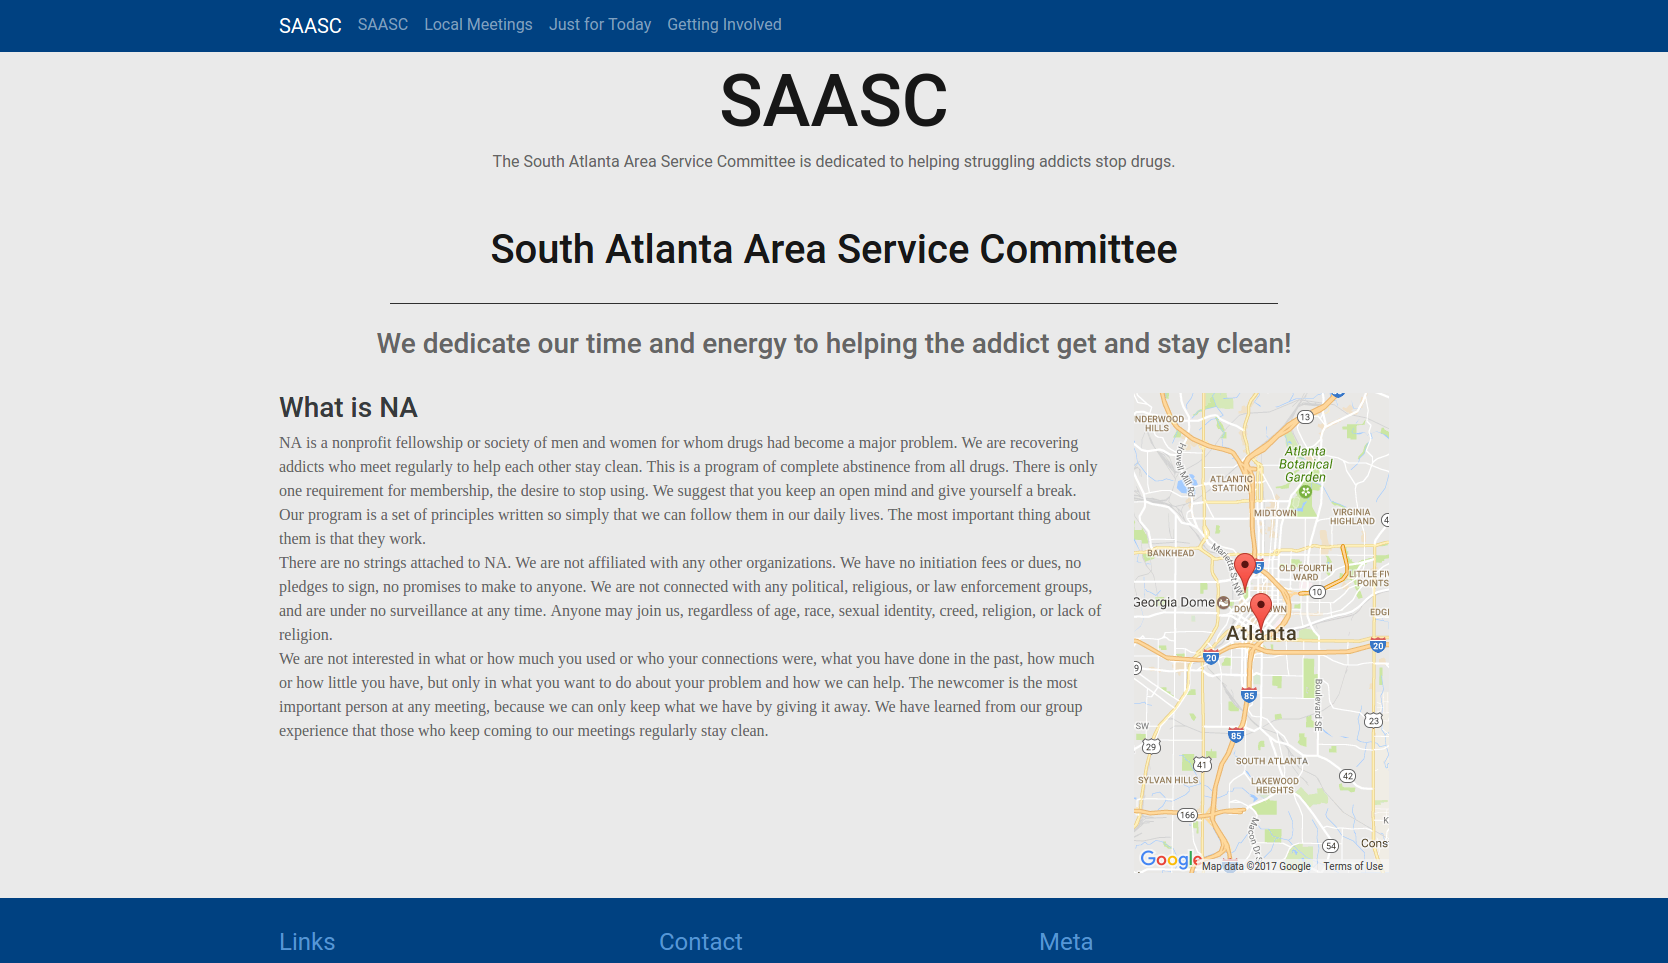
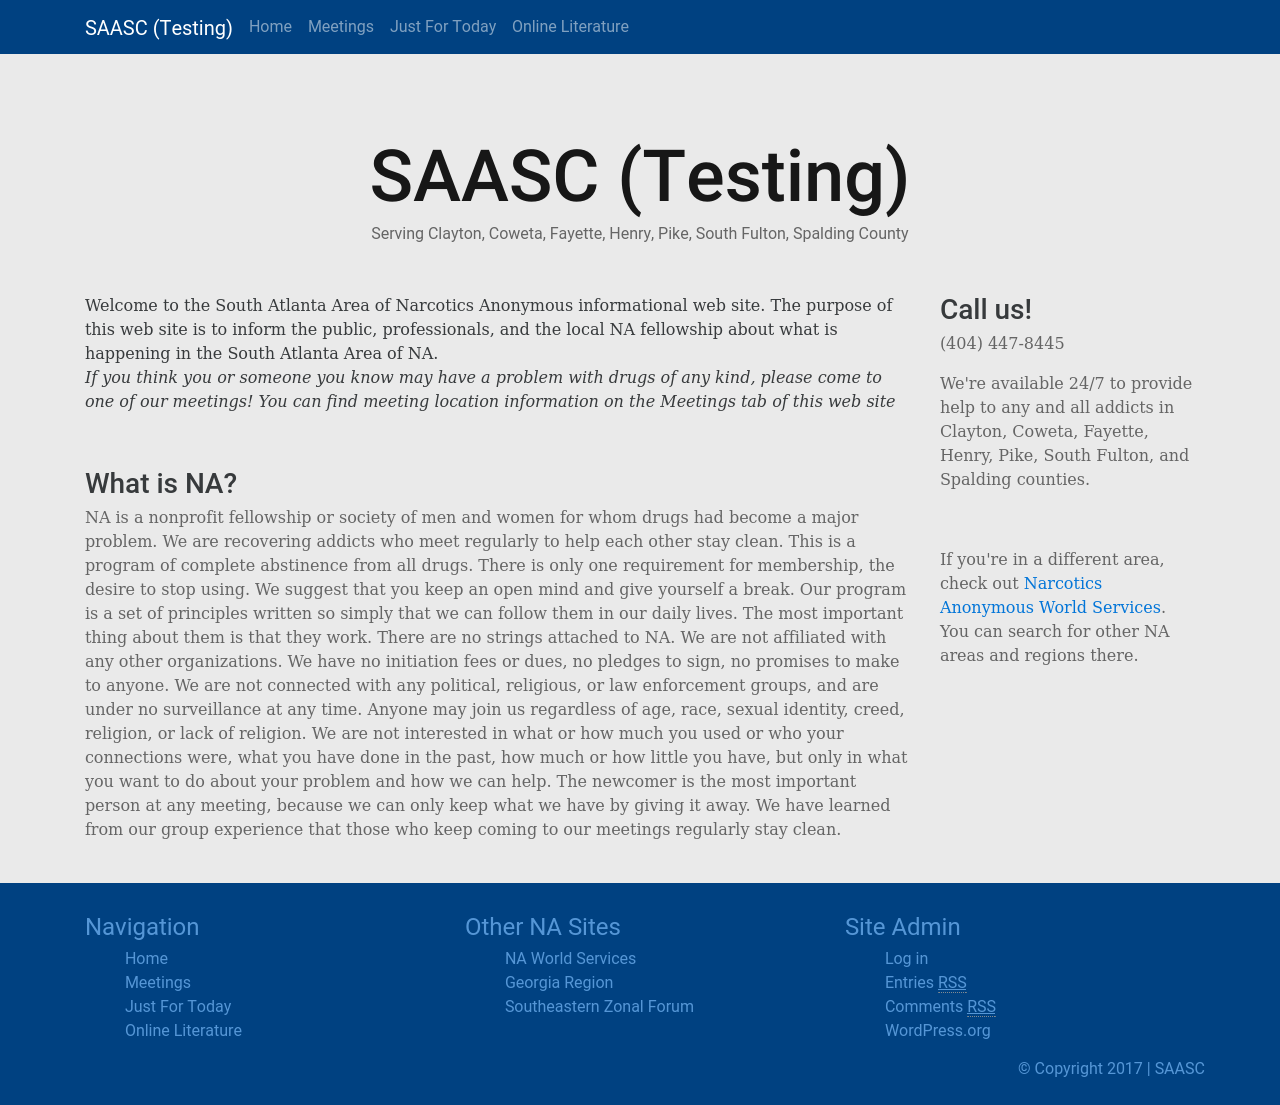
Pictures taken properly now
Rendering in phantomjs was off, phantomjs2 fixed it. Also, the theme screenshot is automatically updated with code changes.

diff --git a/Gruntfile.js b/Gruntfile.js
@@ -15,8 +15,11 @@ module.exports = function(grunt) {
                 options: {
                     spawn: false,
                 }   
+            },
+            php: {
+                files: ['*.php', 'includes/themetacular/*.php'],
+                tasks: ['copy', 'clean', 'webshot']
             }
-
         },
 
         sass: {
@@ -57,7 +60,7 @@ module.exports = function(grunt) {
         copy: {
             main: {
                 files: [
-                    {expand: true, src: ['includes/**'], dest: 'docker/wordpress/wp-content/themes/SAASC-WP-theme/includes'},
+                    {expand: true, src: ['includes/**'], dest: 'docker/wordpress/wp-content/themes/SAASC-WP-theme'},
                     {expand: true, src: ['screenshot.png'], dest: 'docker/wordpress/wp-content/themes/SAASC-WP-theme'},
                     {expand: true, src: ['style.css'], dest: 'docker/wordpress/wp-content/themes/SAASC-WP-theme'},
                     {expand: true, src: ['404.php'], dest: 'docker/wordpress/wp-content/themes/SAASC-WP-theme'},
@@ -92,8 +95,25 @@ module.exports = function(grunt) {
         },
         
         webshot: {  
+            homepage_xl_themeimage: {  
+                options: {  
+                    phantomPath: require('phantomjs2').path,
+                    siteType: 'url',  
+                    site: 'http://172.18.0.3/',  
+                    savePath: 'screenshot.png',  
+                    windowSize: {  
+                        width: 1280,  
+                        height: 720  
+                    },  
+                    shotSize: {  
+                        width: 1280,  
+                        height: 'all'  
+                    }  
+                }  
+            },
             homepage_xl: {  
                 options: {  
+                    phantomPath: require('phantomjs2').path,
                     siteType: 'url',  
                     site: 'http://172.18.0.3/',  
                     savePath: './docs/screenshots/desktop_xl-home.png',  
@@ -109,6 +129,7 @@ module.exports = function(grunt) {
             },  
             homepage_l: {  
                 options: {  
+                    phantomPath: require('phantomjs2').path,
                     siteType: 'url',  
                     site: 'http://172.18.0.3/',  
                     savePath: './docs/screenshots/desktop_l-home.png',  
@@ -124,6 +145,7 @@ module.exports = function(grunt) {
             },  
             homepage_m: {  
                 options: {  
+                    phantomPath: require('phantomjs2').path,
                     siteType: 'url',  
                     site: 'http://172.18.0.3/',  
                     savePath: './docs/screenshots/desktop_m-home.png',  
@@ -139,6 +161,7 @@ module.exports = function(grunt) {
             },  
             homepage_s: {  
                 options: {  
+                    phantomPath: require('phantomjs2').path,
                     siteType: 'url',  
                     site: 'http://172.18.0.3/',  
                     savePath: './docs/screenshots/desktop_s-home.png',  
@@ -154,6 +177,7 @@ module.exports = function(grunt) {
             },  
             homepage_xs: {  
                 options: {  
+                    phantomPath: require('phantomjs2').path,
                     siteType: 'url',  
                     site: 'http://172.18.0.3/',  
                     savePath: './docs/screenshots/desktop_xs-home.png',  
@@ -169,6 +193,7 @@ module.exports = function(grunt) {
             },  
             notfound_xl: {  
                 options: {  
+                    phantomPath: require('phantomjs2').path,
                     phantomConfig: {
                         force: true,
                     },
@@ -187,6 +212,7 @@ module.exports = function(grunt) {
             },  
             notfound_l: {  
                 options: {  
+                    phantomPath: require('phantomjs2').path,
                     phantomConfig: {
                         force: true,
                     },
@@ -205,6 +231,7 @@ module.exports = function(grunt) {
             },  
             notfound_m: {  
                 options: {  
+                    phantomPath: require('phantomjs2').path,
                     phantomConfig: {
                         force: true,
                     },
@@ -223,6 +250,7 @@ module.exports = function(grunt) {
             },  
             notfound_s: {  
                 options: {  
+                    phantomPath: require('phantomjs2').path,
                     phantomConfig: {
                         force: true,
                     },
@@ -241,6 +269,7 @@ module.exports = function(grunt) {
             },  
             notfound_xs: {  
                 options: {  
+                    phantomPath: require('phantomjs2').path,
                     phantomConfig: {
                         force: true,
                     },
